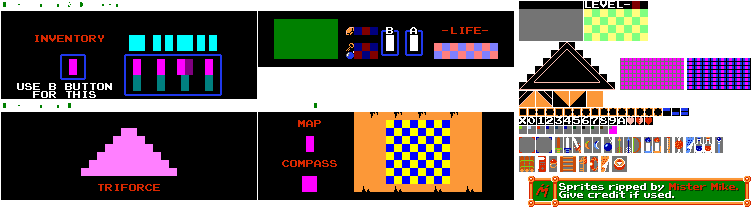
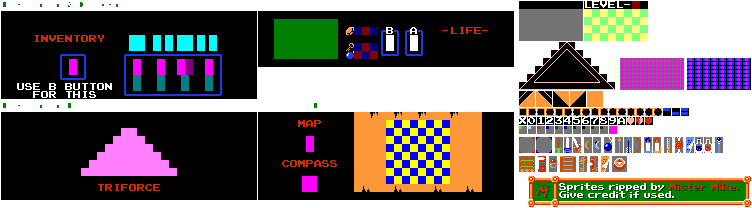
updated healthbar. has columns. link health improvements

Changed region(s): [[0.5505, 0.2019, 0.6729, 0.2885]]

diff --git a/Sprint0/Player/GameHUD.cs b/Sprint0/Player/GameHUD.cs
@@ -25,13 +25,13 @@ namespace Sprint2
         private Rectangle _healthBarPosition;
         private const int HUD_WIDTH = 256;
         private const int HUD_HEIGHT = 48;
-      
-        private const int HEART_WIDTH = 8;
-        private const int HEART_HEIGHT = 8;
-        private const int HEART_SPACING = 0;  // Space between hearts
-        private const int MAX_HEALTH = 3;
 
-        private const int MAX_HEALTH_POINTS = MAX_HEALTH * 2; // 3 hearts = 6 health points
+        private const int HEART_WIDTH = 9;
+        private const int HEART_HEIGHT = 9;
+        private const int HEART_SPACING = 0;  // Space between hearts
+        const int heartsPerRow = 8;  // Set max hearts per row
+
+        private int health;
 
 
 
@@ -43,7 +43,7 @@ namespace Sprint2
             _link = link;
             _scale = scale;
             this.graphicsDevice = graphicsDevice;
-            _link.Health = MAX_HEALTH_POINTS;
+            health = _link.Health;
             this.content = content;
             LoadContent(content);
             InitializeHUDPositions();
@@ -63,9 +63,9 @@ namespace Sprint2
         }
         private void InitializeHUDPositions()
         {
-            
-           _hudBackground = new Rectangle(0, 0, graphicsDevice.Viewport.Width, (int)(HUD_HEIGHT * _scale.Y * 1.2));
-            _healthBarPosition = new Rectangle(703,133, (int)(HEART_WIDTH * _scale.X*1.15), (int) (HEART_HEIGHT * _scale.Y*1.15));
+
+            _hudBackground = new Rectangle(0, 0, graphicsDevice.Viewport.Width, (int)(HUD_HEIGHT * _scale.Y * 1.2));
+            _healthBarPosition = new Rectangle(703, 133, (int)(HEART_WIDTH * _scale.X * 1.15), (int)(HEART_HEIGHT * _scale.Y * 1.15));
             //hard coded heart position and scaling -> reason being HUD size is based on a scale and screenwidth. 
 
             cutOuts = new Rectangle[]
@@ -84,8 +84,11 @@ namespace Sprint2
             _spriteBatch.Draw(_hudTexture, _hudBackground, cutOuts[0], Color.White);
 
 
-            for (int i = 0; i < MAX_HEALTH; i++)
+
+            for (int i = 0; i < health; i++)
             {
+                int row = i / heartsPerRow;
+                int column = i % heartsPerRow;
                 // Each heart position corresponds to 2 health points
                 int heartValue = _link.Health - (i * 2);
 
@@ -103,24 +106,16 @@ namespace Sprint2
                 {
                     heartSource = cutOuts[3];  // Empty heart
                 }
+                int xPosition = _healthBarPosition.X + column * (int)((HEART_WIDTH + HEART_SPACING) * _scale.X);
+                int yPosition = _healthBarPosition.Y + row * (int)(HEART_HEIGHT * _scale.Y);
 
-                // Draw each heart in the appropriate position with scaling
-                _spriteBatch.Draw(
-                    _hudTexture,
-                    new Rectangle(
-                        _healthBarPosition.X + (i * (int)((HEART_WIDTH + HEART_SPACING) * _scale.X)),
-                        _healthBarPosition.Y,
-                        _healthBarPosition.Width,
-                        _healthBarPosition.Height
-                    ),
-                    heartSource,
-                    Color.White
-                );
+                _spriteBatch.Draw(_hudTexture,
+                 new Rectangle(xPosition, yPosition, (int)(HEART_WIDTH * _scale.X), (int)(HEART_HEIGHT * _scale.Y)),
+                 heartSource, Color.White);
+
             }
-
-            // End the sprite batch
             _spriteBatch.End();
-        }
 
+        }
     }
 }

diff --git a/Sprint0/Player/Link.cs b/Sprint0/Player/Link.cs
@@ -37,7 +37,7 @@ namespace Sprint0.Player
         private SpriteEffects spriteEffects;
 
         //for hud:
-        public int Health { get; set; } = 6; // each heart = 2 hp
+        public int Health { get; set; } = 16; // each heart = 2 hp
 
         public SoundEffect SwordAttackSound { get; private set; }
         public SoundEffect bowAttackSound { get; private set; }
